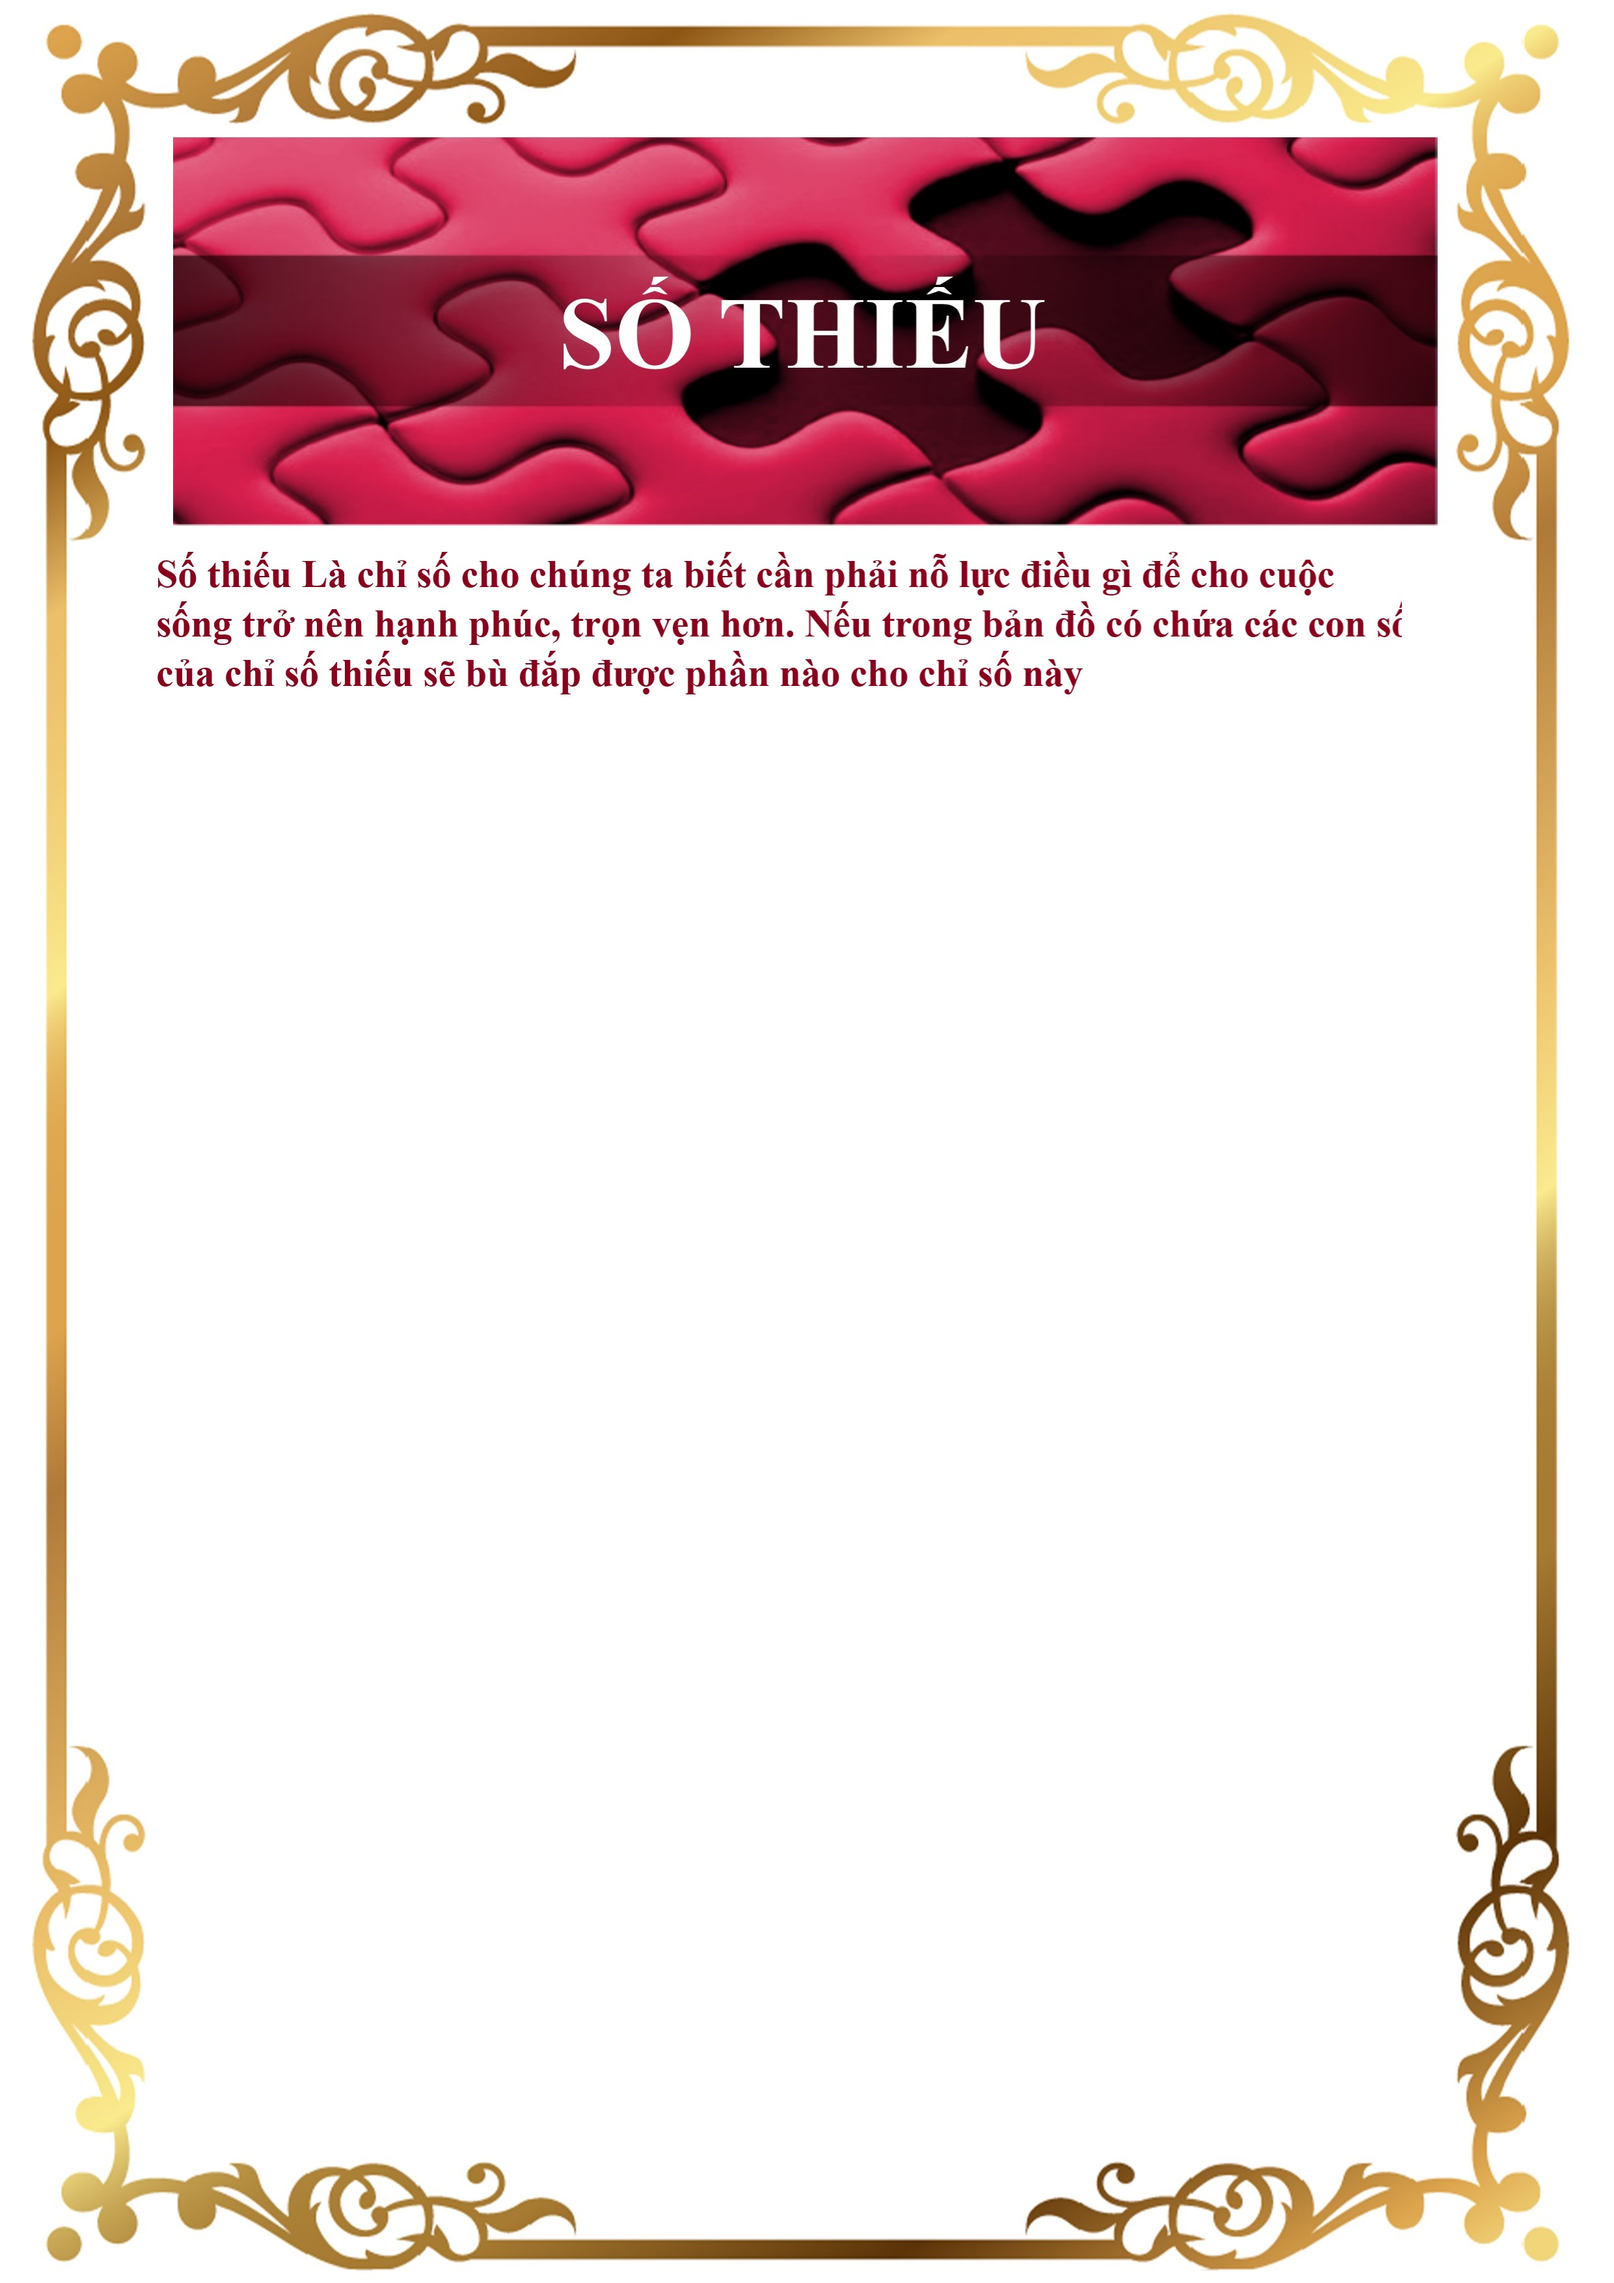
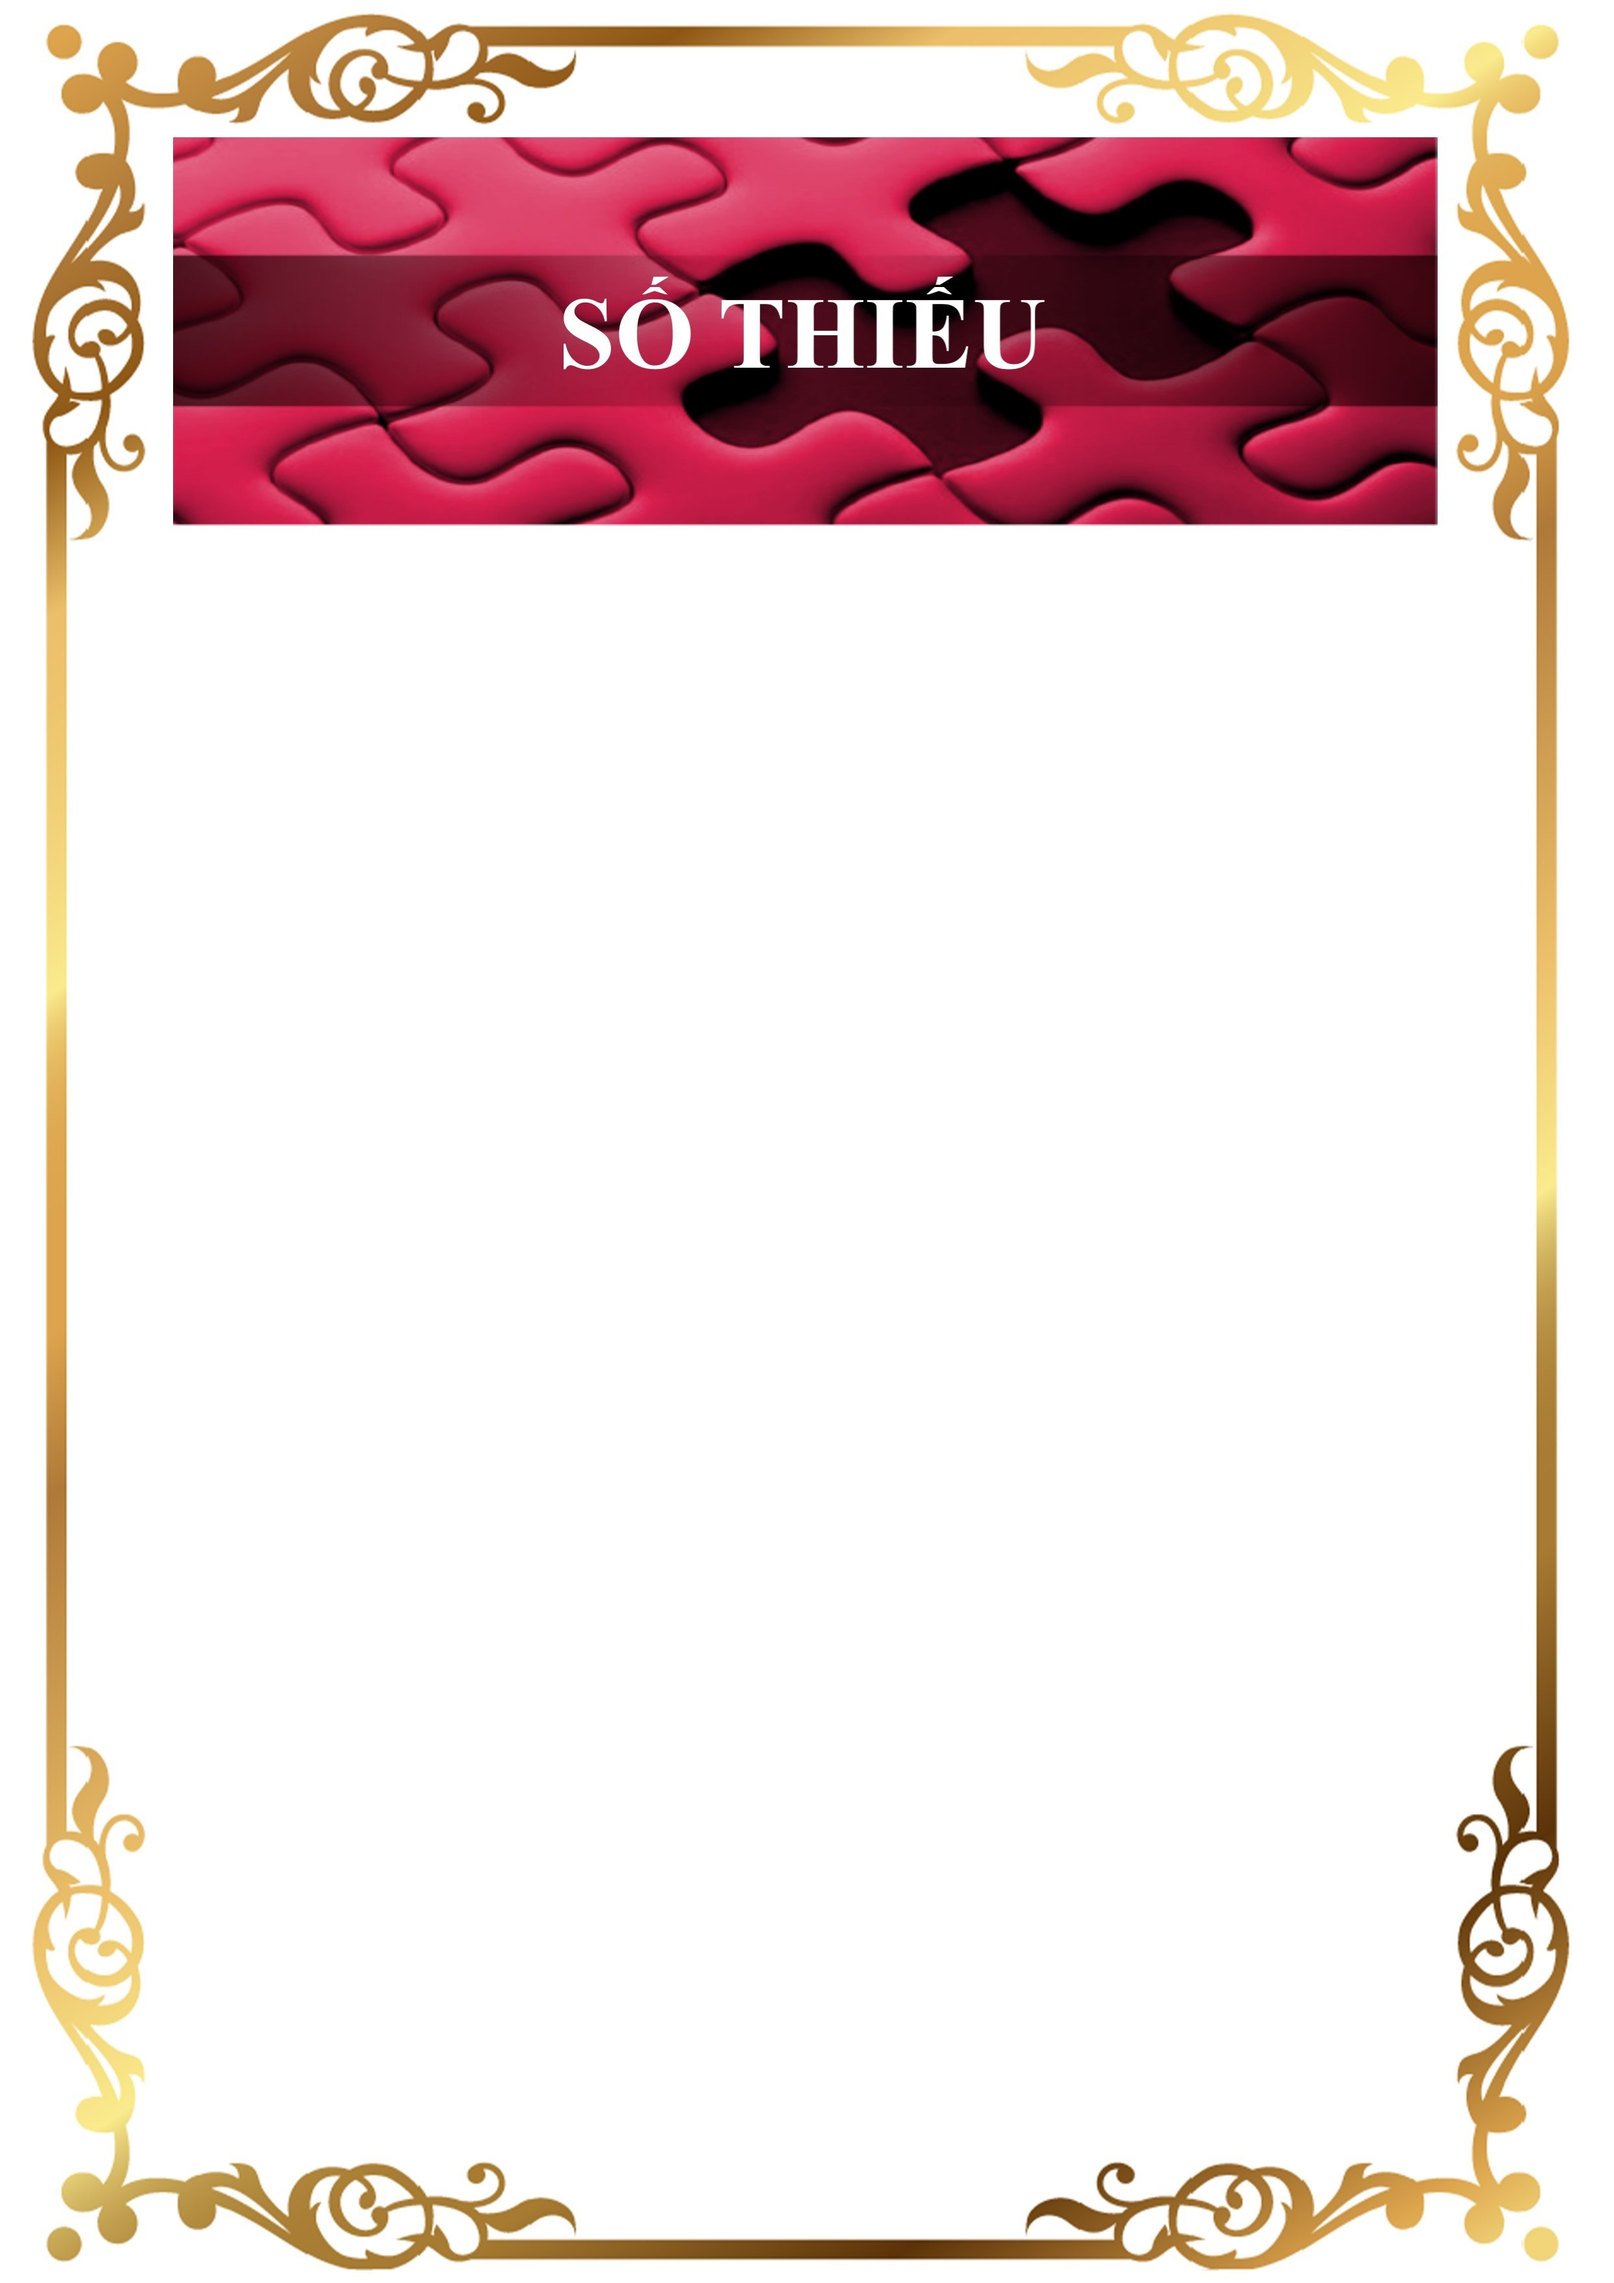
Hoàn thành số thiếu và số đam mê

Changed region(s): [[0.0931, 0.2486, 0.8694, 0.3107]]

diff --git a/JS_thanSo/tinhToanSo.js b/JS_thanSo/tinhToanSo.js
@@ -530,7 +530,7 @@ const soBoSungPDF = {
         </ul>
         <strong>Giải pháp:</strong>
         <ul>
-            <li> học kiến thức liên quan đến tài chính và đầu tư. Học cách chi tiết thực tế hơn và cần có người cố vấn</li>
+            <li> Học kiến thức liên quan đến tài chính và đầu tư. Học cách chi tiết thực tế hơn và cần có người cố vấn</li>
         </ul>
     </li>`,
     so_9: `  <li>
@@ -544,7 +544,44 @@ const soBoSungPDF = {
         </ul>
     </li>`
 }
-
+const soDamMePDF = {
+    so_1:`<div>
+    <p><strong>Số 1:</strong> Bạn độc lập, mạnh mẽ, luôn đưa ra những ý tưởng độc đáo. 
+    Bạn giỏi tập trung để hoàn thành nhiệm vụ, nên thường đạt được nhiều thành tựu đáng kể.</p>
+</div>`,
+    so_2:`<div>
+    <p><strong>Số 2:</strong> Bạn rất hợp tác và hòa hợp với những người khác. 
+    Ngoài ra bạn có khả năng giảng hòa các cuộc tranh cãi, nên mọi người luôn lắng nghe tiếng nói của bạn.</p>
+</div>`,
+    so_3:`<div>
+    <p><strong>Số 3:</strong> Bạn hòa đồng và thích giải trí, nên dù ở đâu bạn cũng pha trò và thu hút mọi người.
+     Bạn tài năng và luôn cống hiến hết mình cho công việc.</p>
+</div>`,
+    so_4:`<div>
+    <p><strong>Số 4:</strong> Bạn có tính kỷ luật cao và theo 1 lịch trình nhất định.
+     Bạn kiên trì và luôn nỗ lực hết sức để hoàn thành công việc 1 cách cẩn thận.</p>
+</div>`,
+    so_5:`<div>
+    <p><strong>Số 5:</strong> Bạn dễ dàng thích nghi với mọi thay đổi, hay thường đi du lịch để trải nghiệm và khám phá.
+     Khả năng ngôn ngữ linh hoạt giúp bạn thu hút người khác.</p>
+</div>`,
+    so_6:`<div>
+    <p><strong>Số 6:</strong> Bạn linh hoạt và dễ dàng thích nghi với các tình huống. 
+    Bạn có một trái tim hòa đồng, nhân hậu, quan tâm đến mọi người xung quanh,
+     nên luôn suy nghĩ tìm cách giúp đỡ những người kém may mắn.</p>
+</div>`,
+    so_7:`<div>
+    <p><strong>Số 7:</strong> Bạn luôn bình ổn, trí tuệ phát triển và trực giác cao. 
+    Bạn thích cân nhắc và tìm hiểu những thứ xung quanh nên bạn có kiến thức rất sâu sắc.</p>
+</div>`,
+    so_8:`<div>
+    <p><strong>Số 8:</strong> Bạn có động lực mạnh mẽ để hoàn thành công việc hoặc kế hoạch nhằm đảm bảo tiền bạc và địa vị.</p>
+</div>`,
+    so_9:`<div>
+    <p><strong>Số 9:</strong> Bạn có thể là người yêu thích âm nhạc hoặc nghệ thuật, với xu hướng thay đổi giữa các thái cực cảm xúc.
+     Bạn quan tâm đến việc giúp đỡ người khác và giải cứu thế giới hơn bản thân mình.</p>
+</div>`,
+}
 
 const str = "ABCDEFGHIJKLMNOPQRSTUVWXYZ";
 let ten;
@@ -569,7 +606,6 @@ function tinhToanSo() {
     nguyenPhuAm(ten); // Lấy ra mảng nguyên âm và phụ âm
     getDaySoCamXuc(ten); //Lấy ra mảng chữ số cảm xúc trong tên
     getDaySoTrucGiac(ten);  // Lấy ra mảng chữ số trực giác trong tên
-
     let duongDoiSlide = document.getElementById("duongDoi").innerHTML = getSum(arrNgaySinh);
     let suMenhSlide = document.getElementById("suMenh").innerHTML = getSum(arr);
     let linhHonSlide = document.getElementById("linhHon").innerHTML = getSum(arrNa);
@@ -600,7 +636,16 @@ function tinhToanSo() {
     document.getElementById("report_duongdoi_content").innerHTML = duongDoi[duongDoiSlide1]
 
     if (localStorage.getItem("loggedInUser") === "admin") {
-        document.getElementById("show_so_thieu").innerHTML = getMissingNumbers(arr);
+        document.getElementById("show_so_thieu").innerHTML = soThieuSlide;
+        for (let i = 0; i < soThieuSlide.length; i++) {
+            let numberTarget = "so_"+ soThieuSlide[i];
+            document.getElementById("show_so_thieu").innerHTML += soBoSungPDF[numberTarget];
+        }
+        document.getElementById("show_so_dam_me").innerHTML = soDamMeSlide;
+        for (let i = 0; i < soDamMeSlide.length; i++) {
+            let numberTarget = "so_"+ soDamMeSlide[i];
+            document.getElementById("show_noi_dung_so_dam_me").innerHTML += soDamMePDF[numberTarget];
+        }
         const dataPDF = {
             duongDoi: duongDoiSlide,
             suMenh: suMenhSlide,
@@ -840,7 +885,7 @@ async function addHtmlContentToPDF(pdf, divId, width, height) {
 
     // Các tùy chọn cho html2canvas: Tăng tỷ lệ để cải thiện độ nét
     const canvasOptions = {
-        scale: 2, // Tăng tỷ lệ để cải thiện độ nét
+        scale: 6, // Tăng tỷ lệ để cải thiện độ nét
         useCORS: true, // Cho phép tải tài nguyên có CORS
         logging: true, // Bật ghi log để dễ dàng gỡ lỗi
         width: content.offsetWidth, // Đảm bảo chụp đúng chiều rộng thực tế
@@ -917,6 +962,7 @@ async function generatePDFWithImages() {
             }
         }
         await addHtmlContentToPDF(pdf, 'print_pdf1', width, height);
+        await addHtmlContentToPDF(pdf, 'print_pdf2', width, height);
         pdf.save('document.pdf'); // Lưu PDF sau khi tất cả ảnh đã được thêm vào
         button.classList.remove('loading');
         button.textContent = 'KHÁM PHÁ BẢN THÂN'; // Reset text nếu cần

diff --git a/HTML/traCuu.html b/HTML/traCuu.html
@@ -33,7 +33,7 @@
             font-weight: lighter;
         }
 
-        .background-image {
+        .background-image-so-thieu {
             background-image: url('../img/img_than_so_pdf/so_bo_sung/imgSoThieu.jpg');
             width: 210mm; /* Giả sử bạn muốn div này chiếm toàn bộ chiều rộng của trang A4 */
             height: 297mm; /* Chiều cao của trang A4 */
@@ -42,11 +42,19 @@
             background-position: center center;
 
         }
+        .background-image-dam-me {
+            background-image: url('../img/img_than_so_pdf/so_dam_me/imgDamMe.jpg');
+            width: 210mm; /* Giả sử bạn muốn div này chiếm toàn bộ chiều rộng của trang A4 */
+            height: 297mm; /* Chiều cao của trang A4 */
+            background-size: contain; /* Đảm bảo ảnh nền nằm gọn trong div */
+            background-repeat: no-repeat;
+            background-position: center center;
 
+        }
         .image-text {
             color:  #bb2d3b;
-            font-size: 5mm;
-            font-weight: bolder;
+            font-size: 4mm;
+            font-weight: lighter;
             font-family: Arial;
         }
 
@@ -59,7 +67,7 @@
         }
 
         .image-content {
-            padding-top: 320px;
+            padding-top: 240px;
             padding-right: 50px;
             padding-left: 40px;
         }
@@ -658,14 +666,19 @@
     </div>
     <!--print pdf-->
     <div class="container " id="pdf-content-wrapper">
-        <div class="background-image" id="print_pdf">
+        <div class="background-image-so-thieu" id="print_pdf1">
             <div class="row px-5 py-5">
                 <div class="image-content">
                     <h1 class="image-text">CON SỐ CẦN BỔ DUNG CỦA BẠN LÀ <span id="show_so_thieu"></span></h1>
-                    <div class="image-text" id="show_noi_dung_so_thieu">Lorem ipsum dolor sit amet, consectetur
-                        adipisicing elit. Architecto, asperiores distinctio dolorem, eius eligendi harum hic iste
-                        labore minima nam perferendis perspiciatis placeat provident quam ut? Accusamus beatae quasi sed?</div>
-
+                    <div class="image-text" id="show_noi_dung_so_thieu"></div>
+                </div>
+            </div>
+        </div>
+        <div class="background-image-dam-me" id="print_pdf2">
+            <div class="row px-5 py-5">
+                <div class="image-content">
+                    <h1 class="image-text">CON SỐ CẦN ĐAM MÊ CỦA BẠN LÀ <span id="show_so_dam_me"></span></h1>
+                    <div class="image-text" id="show_noi_dung_so_dam_me"></div>
                 </div>
             </div>
         </div>
